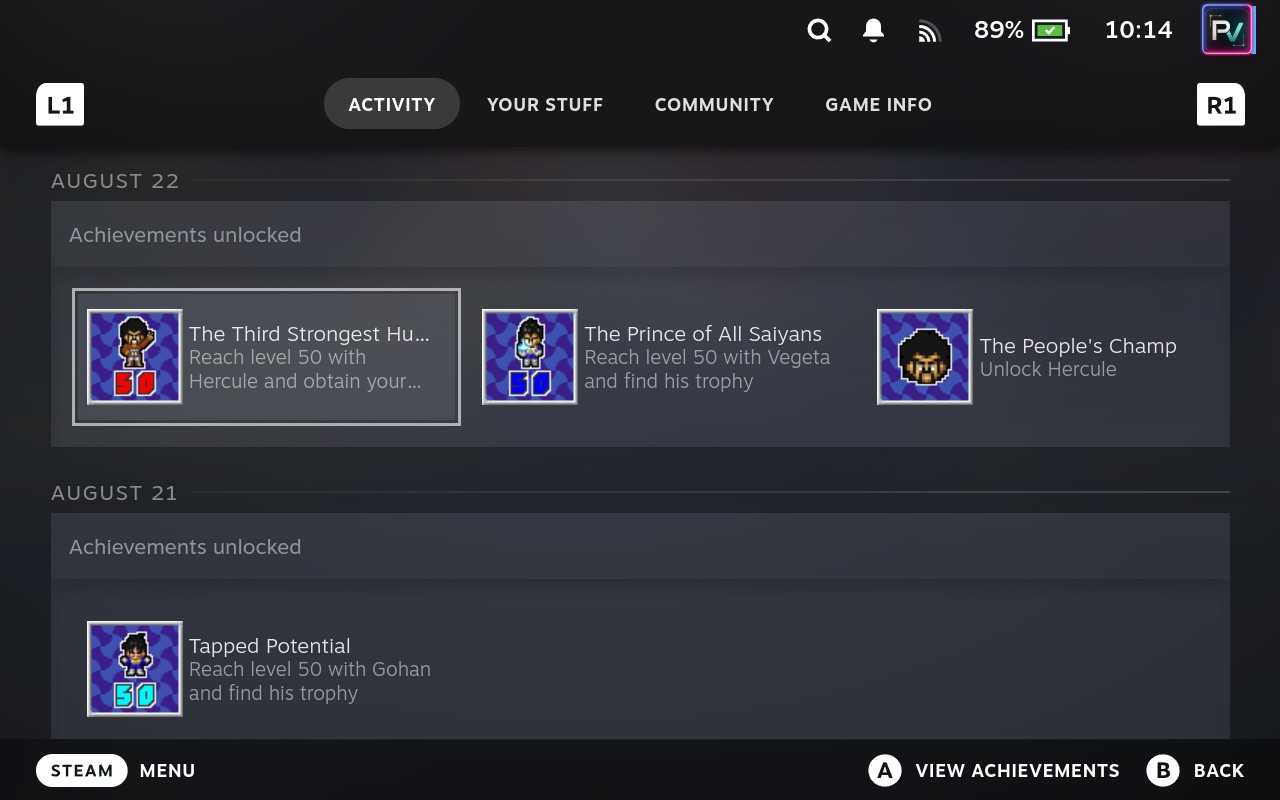
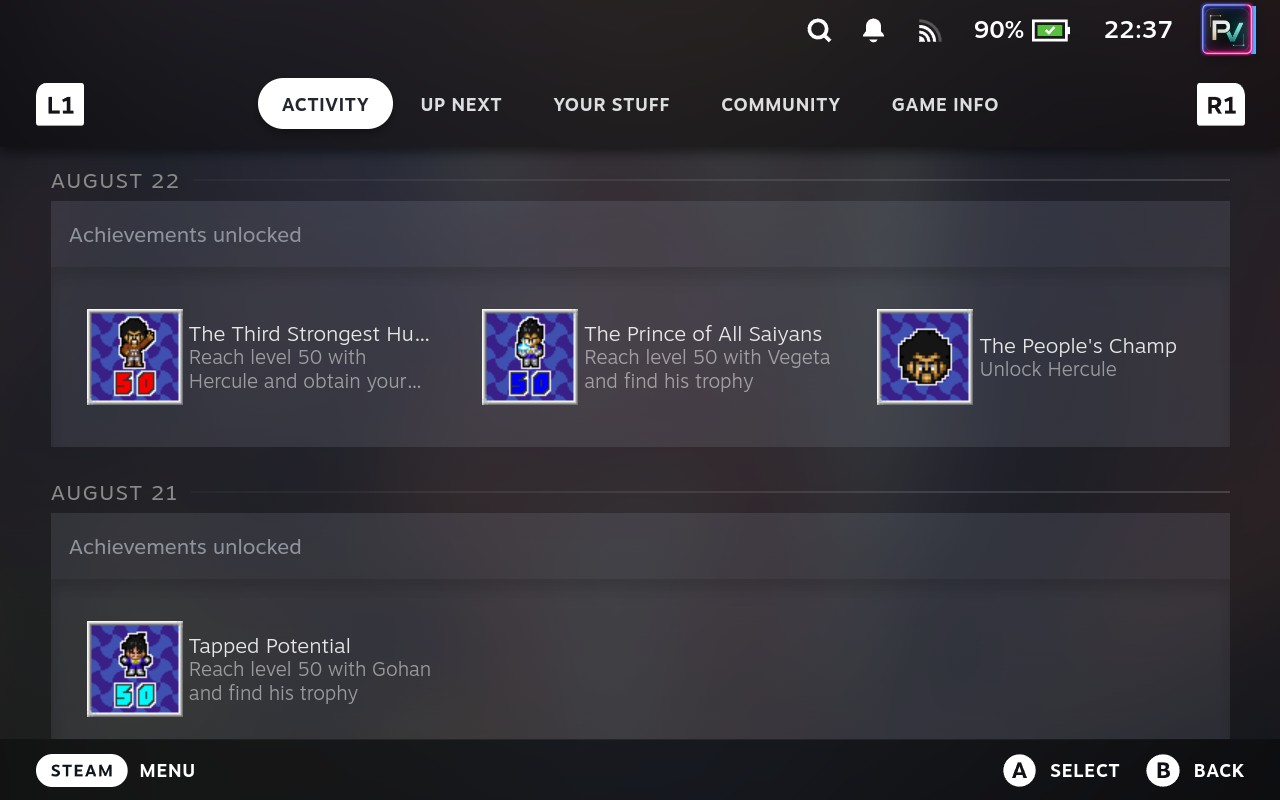
docs(readme): add native Steam Up Next screenshots and guidance
- Show Beat and Master goal examples in the native Steam section
- Explain goal selection, recommendation labels, and achievement navigation
- Refresh the existing native Steam screenshots

diff --git a/README.md b/README.md
@@ -35,8 +35,8 @@ Achievement Companion is an independent community project, not affiliated with o
 
 ## Highlights
 
-- **[Find your next unlock](#quick-access-menu):** see a focused suggestion in Quick Access or up to three goal-aware recommendations on a full-screen game page.
-- **[Stay in Game Mode](#retroachievements-inside-steam):** view RetroAchievements in Steam's Activity, Your Stuff, Community, and Game Info sections for supported non-Steam games.
+- **[Find your next unlock](#quick-access-menu):** see a focused suggestion in Quick Access or up to three recommendations on full-screen pages and matched RetroAchievements shortcuts in Steam.
+- **[Stay in Game Mode](#retroachievements-inside-steam):** view RetroAchievements in Steam's Activity, Up Next, Your Stuff, Community, and Game Info sections for supported non-Steam games.
 - **[Explore both collections](#screenshots):** use controller-friendly profiles, searchable games and achievements, progress views, activity calendars, and achievement details.
 - **Understand Steam completions:** SteamHunters adds community rarity, completion times, DLC requirements, achievement groups, and obtainability data where available. Personal SteamHunters profile data is optional.
 - **[See milestones in your library](#native-game-page-status-badges):** choose Classic or Minimal badges for In Progress, Steam Perfected, and RetroAchievements Beaten or Mastered status.
@@ -97,8 +97,9 @@ Open a game for up to three recommendations and a complete achievement browser. 
 
 For a non-Steam shortcut that Achievement Companion can confidently match to a RetroAchievements game:
 
-- **Your Stuff → Achievements** shows badge artwork, descriptions, progress, locked and unlocked states, and unlock times or global rates when RetroAchievements provides them.
-- **Activity** groups dated unlocks by day in Steam's native layout. Tiles include the exact unlock time and Hardcore or Softcore mode, and open the native Your Stuff achievement list.
+- **Activity** groups dated unlocks by day in Steam's native layout. Tiles include the exact unlock time and Hardcore or Softcore mode; selecting one finds that achievement in the native Your Stuff list.
+- **Up Next** shows game progress and up to three Beat or Master recommendations. Use Goal Settings to change the game's goal. Win Condition, Progression, and Missable labels identify relevant suggestions. Selecting one finds its exact row in the native achievement list; completed goals show a completion message.
+- **Your Stuff → Achievements** shows badge artwork, descriptions, progress, locked and unlocked states, and unlock times or global rates when RetroAchievements provides them. Win Condition, Progression, and Missable labels also appear in the full native list.
 - **Community → Playtime Stats** shows RA community milestones and sampled median times in Steam's game-page layout. Its Casual/Hardcore control is separate from your saved achievement mode: Hardcore shows Beat and Mastered statistics; Casual shows Beat and Completed statistics. **Latest Masters** shows up to ten recent mastery entries with artwork, ranks, and dates. Unavailable values are omitted, and missing profile artwork falls back to initials.
 - **Game Info** adds a native metadata view with the matched game's cover, system, release date, developer, publisher, genre, and achievement availability when those fields are provided.
 
@@ -112,6 +113,14 @@ For a non-Steam shortcut that Achievement Companion can confidently match to a R
   <tr>
     <td width="50%"><img src="docs/screenshots/readme/ra-native-steam-activity.png" alt="RetroAchievements shown in Steam's native Activity interface" width="100%"></td>
     <td width="50%"><img src="docs/screenshots/readme/ra-native-steam-achievements.png" alt="RetroAchievements shown in Steam's native Your Stuff Achievements interface" width="100%"></td>
+  </tr>
+  <tr>
+    <th width="50%">Up Next / Beat goal</th>
+    <th width="50%">Up Next / Master goal</th>
+  </tr>
+  <tr>
+    <td width="50%"><img src="docs/screenshots/readme/ra-native-steam-up-next_beat-goal.png" alt="RetroAchievements Up Next in Steam with a Beat goal and Win Condition recommendation for StarCraft 64" width="100%"></td>
+    <td width="50%"><img src="docs/screenshots/readme/ra-native-steam-up-next_master-goal.png" alt="RetroAchievements Up Next in Steam with a Master goal and Missable recommendations for The Legend of Zelda: Ocarina of Time" width="100%"></td>
   </tr>
   <tr>
     <th width="50%">Community / Playtime Stats</th>
